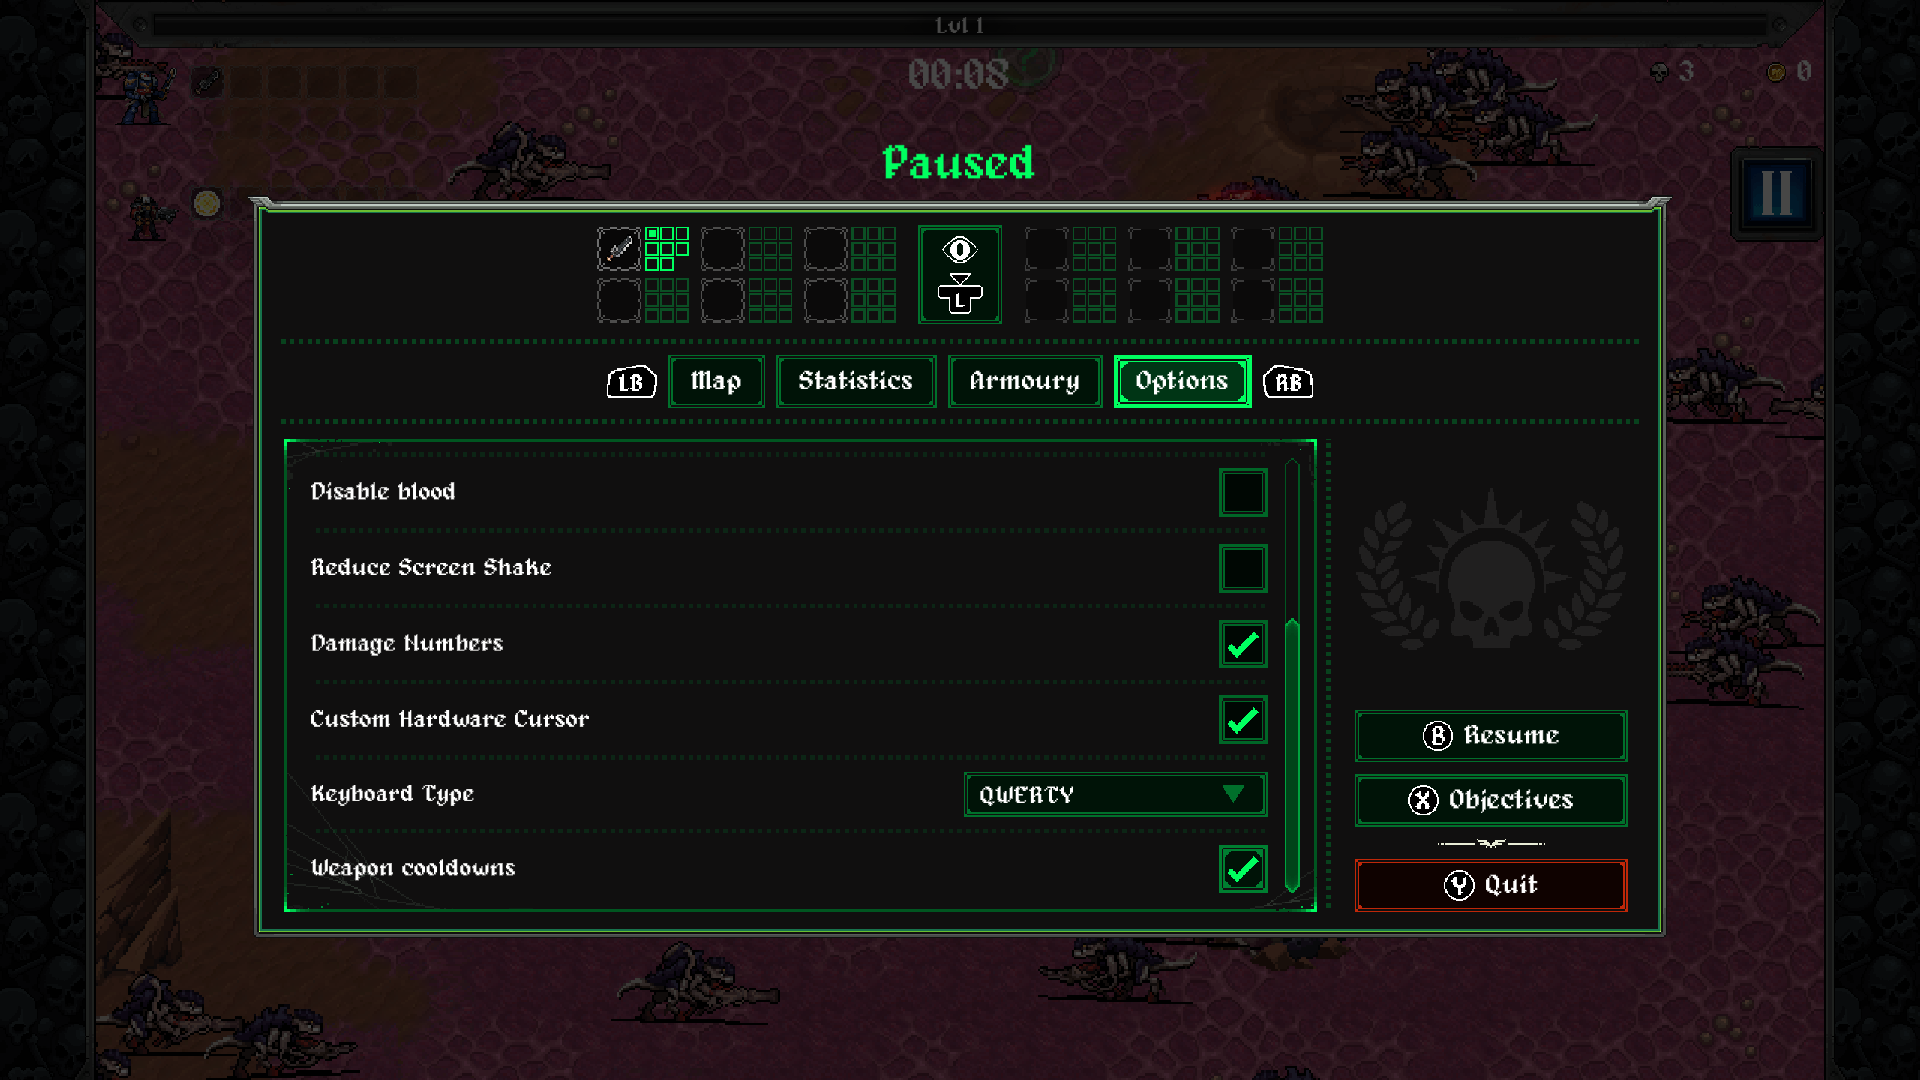
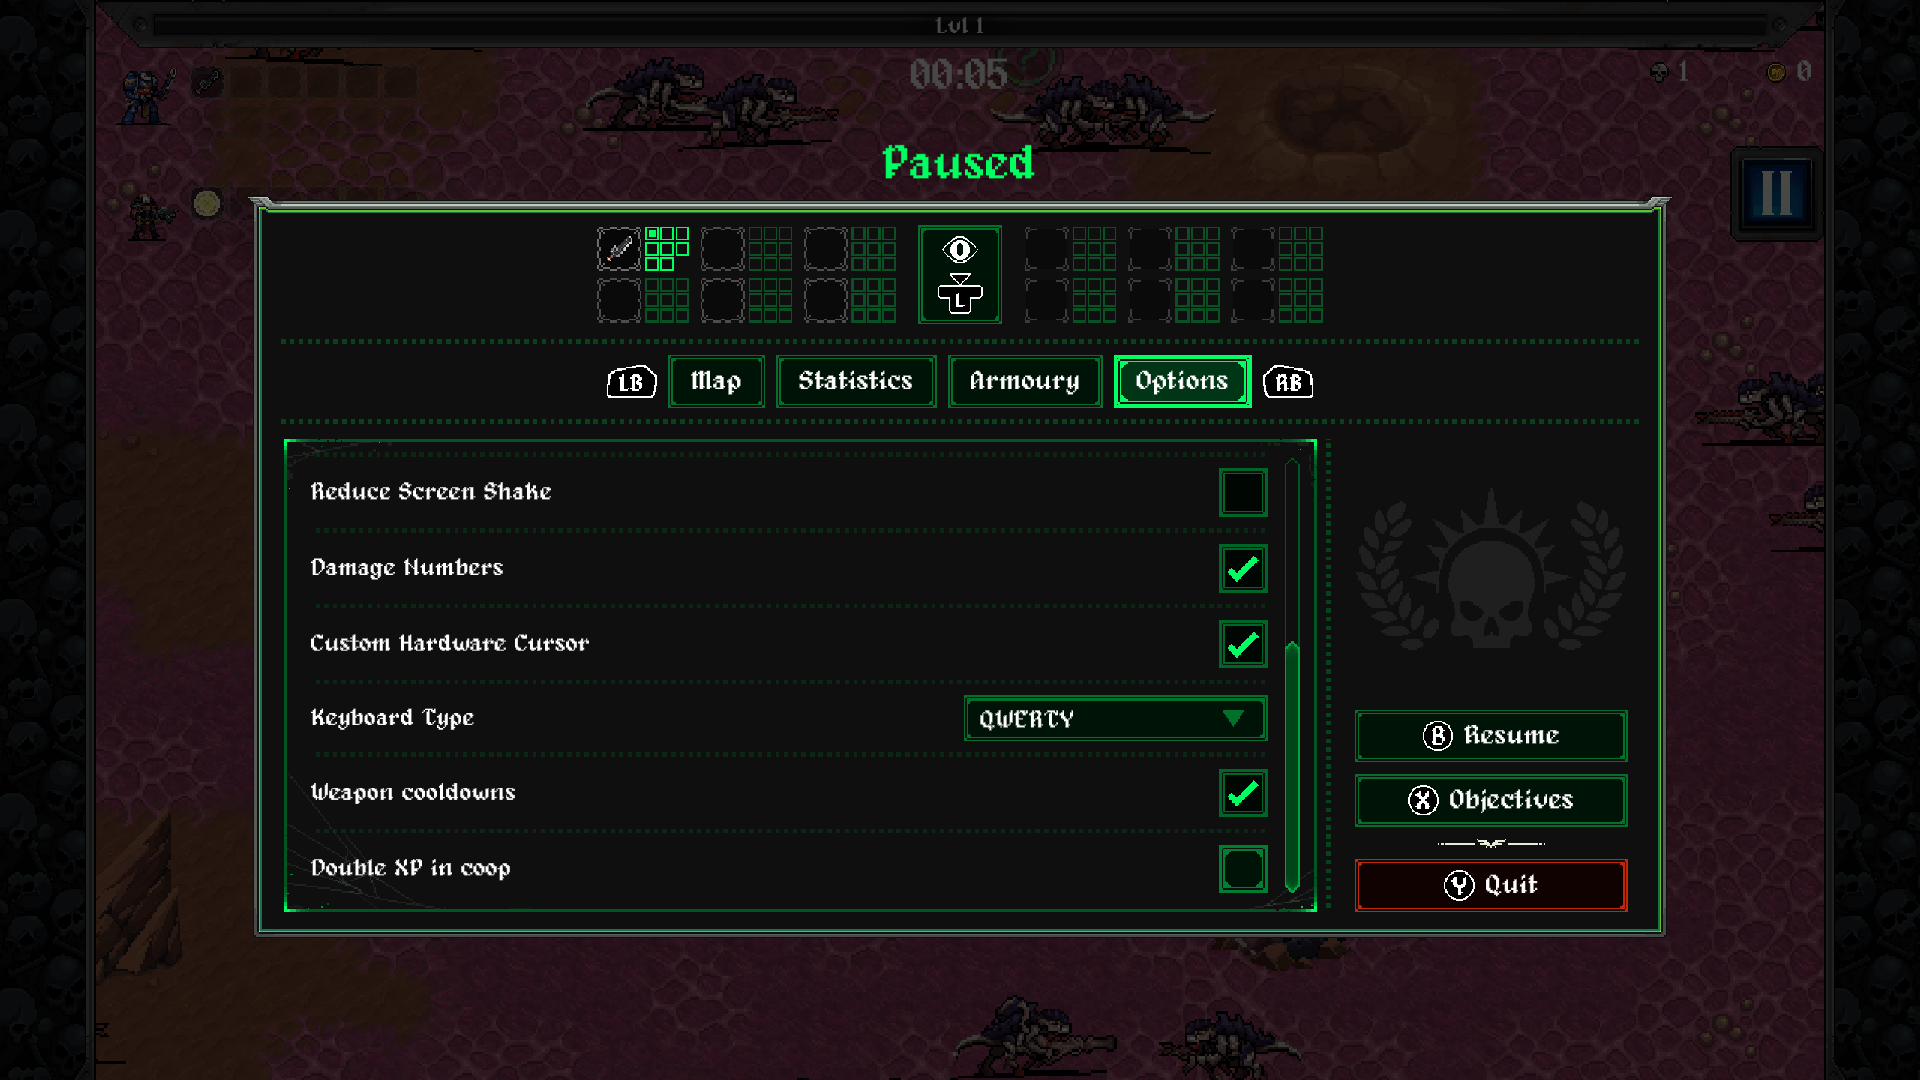
Update the screenshots in the README for the new functions
Replace the picture of the options page. Add pictures of the camera
with the players far apart and of the tombstone of a dead player.

diff --git a/README.md b/README.md
@@ -45,9 +45,13 @@ The plugin also shows the weapon cooldown panel of the game for all weapons. Thi
 | --- | --- |
 | ![Character select page](docs/screenshots/character-select.png) | ![Level-up page](docs/screenshots/level-up.png) |
 
-| Options page with the tick box "Weapon cooldowns" | Equipment panels and cooldown panels of two players |
+| Options page with the tick boxes of the mod | Equipment panels and cooldown panels of two players |
 | --- | --- |
 | ![Options page](docs/screenshots/options.png) | ![Run](docs/screenshots/run.png) |
+
+| Camera with the players far apart | Tombstone of a dead player in the player color |
+| --- | --- |
+| ![Camera](docs/screenshots/camera.png) | ![Tombstone](docs/screenshots/tombstone.png) |
 
 ## Status
 
